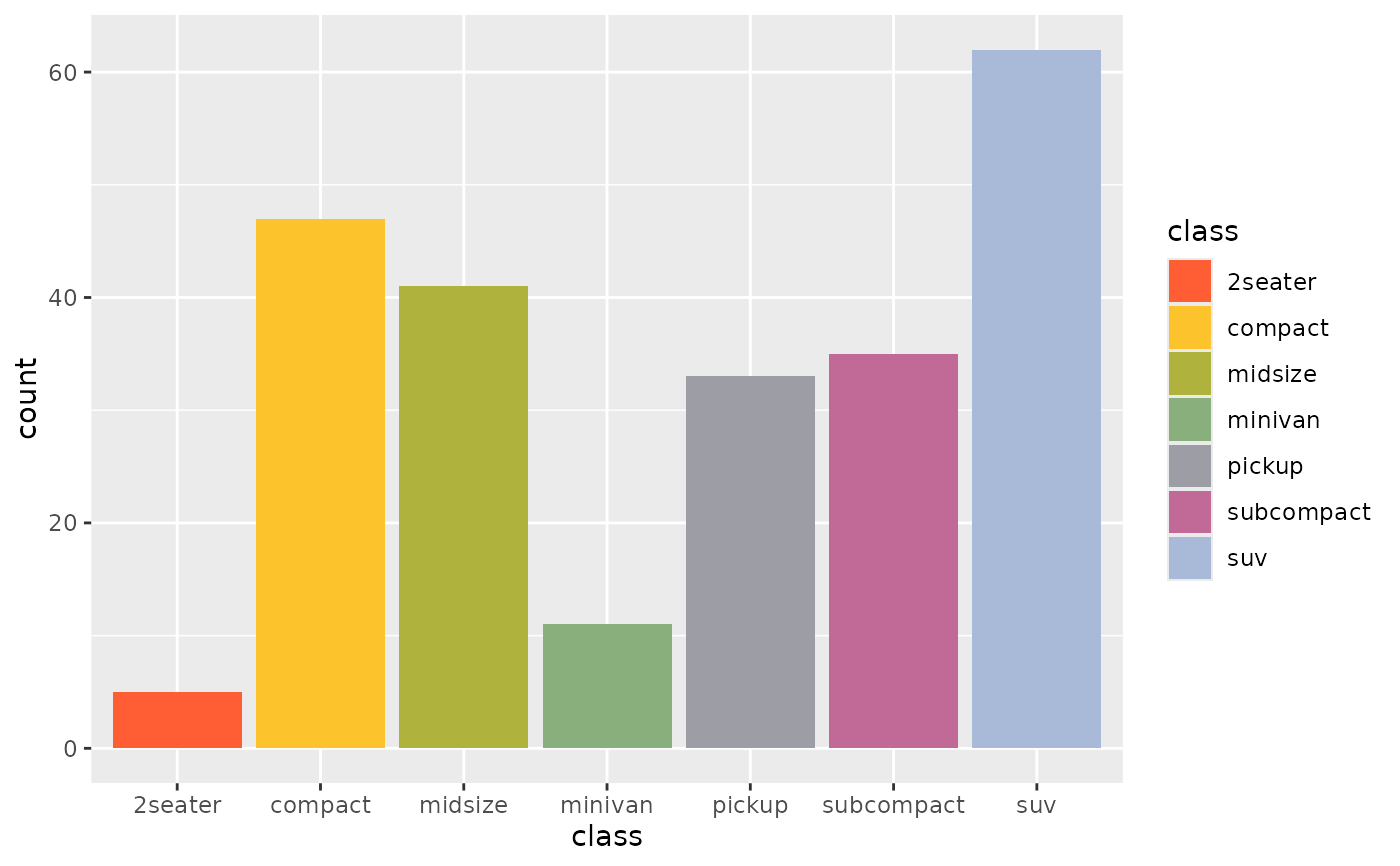
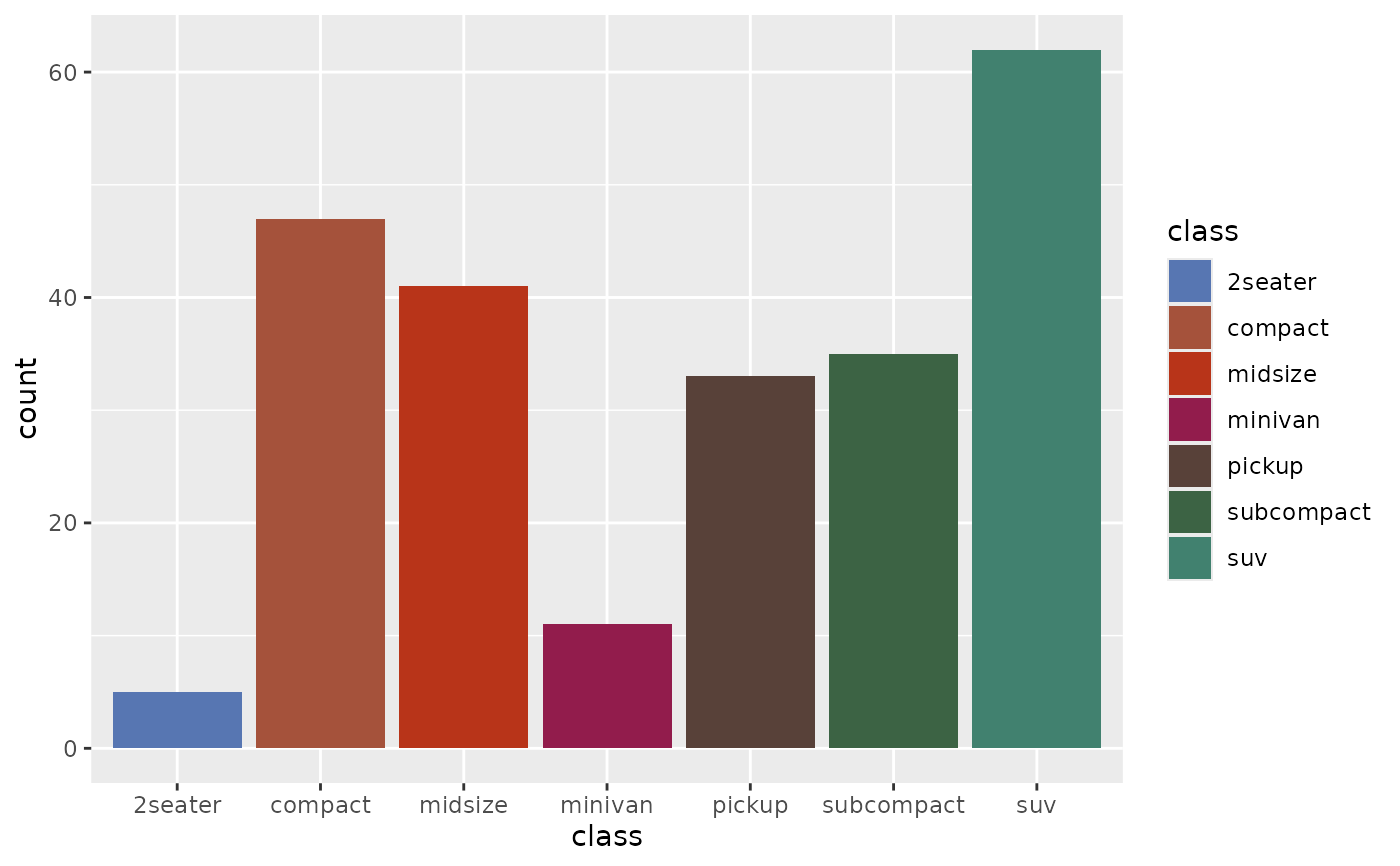
Deploying to gh-pages from @ rfortherestofus/omni@b5d9593c1e0885ca1a566078a63bb159723cba1d 🚀

Changed region(s): [[0.0614, 0.0312, 0.7986, 0.873], [0.8293, 0.2806, 0.8907, 0.6859]]

diff --git a/reference/omni_pal.html b/reference/omni_pal.html
@@ -39,8 +39,8 @@
     <div class="section level2">
     <h2 id="ref-usage">Usage<a class="anchor" aria-label="anchor" href="#ref-usage"></a></h2>
     <div class="sourceCode"><pre class="sourceCode r"><code><span><span class="fu">omni_pal</span><span class="op">(</span></span>
-<span>  palette <span class="op">=</span> <span class="fu"><a href="https://rdrr.io/r/base/c.html" class="external-link">c</a></span><span class="op">(</span><span class="st">"orange-red-400"</span>, <span class="st">"golden-yellow-400"</span>, <span class="st">"olive-green-400"</span>, <span class="st">"teal-400"</span>,</span>
-<span>    <span class="st">"plum-400"</span>, <span class="st">"periwinkle-400"</span><span class="op">)</span>,</span>
+<span>  palette <span class="op">=</span> <span class="fu"><a href="https://rdrr.io/r/base/c.html" class="external-link">c</a></span><span class="op">(</span><span class="st">"periwinkle-600"</span>, <span class="st">"orange-red-600"</span>, <span class="st">"plum-600"</span>, <span class="st">"olive-green-600"</span>,</span>
+<span>    <span class="st">"teal-600"</span><span class="op">)</span>,</span>
 <span>  reverse <span class="op">=</span> <span class="cn">FALSE</span>,</span>
 <span>  <span class="va">...</span></span>
 <span><span class="op">)</span></span></code></pre></div>
@@ -51,7 +51,9 @@
 
 
 <dl><dt id="arg-palette">palette<a class="anchor" aria-label="anchor" href="#arg-palette"></a></dt>
-<dd><p>Character vector of OMNI colors.</p></dd>
+<dd><p>Character vector of OMNI colors. The default is the 600-level
+colorblind-ordered categorical palette; golden-yellow is excluded because it
+fails contrast on a white background.</p></dd>
 
 
 <dt id="arg-reverse">reverse<a class="anchor" aria-label="anchor" href="#arg-reverse"></a></dt>

diff --git a/reference/scale_color_omni_discrete.html b/reference/scale_color_omni_discrete.html
@@ -39,8 +39,8 @@
     <div class="section level2">
     <h2 id="ref-usage">Usage<a class="anchor" aria-label="anchor" href="#ref-usage"></a></h2>
     <div class="sourceCode"><pre class="sourceCode r"><code><span><span class="fu">scale_color_omni_discrete</span><span class="op">(</span></span>
-<span>  palette <span class="op">=</span> <span class="fu"><a href="https://rdrr.io/r/base/c.html" class="external-link">c</a></span><span class="op">(</span><span class="st">"orange-red-400"</span>, <span class="st">"golden-yellow-400"</span>, <span class="st">"olive-green-400"</span>, <span class="st">"teal-400"</span>,</span>
-<span>    <span class="st">"plum-400"</span>, <span class="st">"periwinkle-400"</span><span class="op">)</span>,</span>
+<span>  palette <span class="op">=</span> <span class="fu"><a href="https://rdrr.io/r/base/c.html" class="external-link">c</a></span><span class="op">(</span><span class="st">"periwinkle-600"</span>, <span class="st">"orange-red-600"</span>, <span class="st">"plum-600"</span>, <span class="st">"olive-green-600"</span>,</span>
+<span>    <span class="st">"teal-600"</span><span class="op">)</span>,</span>
 <span>  reverse <span class="op">=</span> <span class="cn">FALSE</span>,</span>
 <span>  <span class="va">...</span></span>
 <span><span class="op">)</span></span></code></pre></div>
@@ -51,7 +51,9 @@
 
 
 <dl><dt id="arg-palette">palette<a class="anchor" aria-label="anchor" href="#arg-palette"></a></dt>
-<dd><p>Character vector of OMNI colors.</p></dd>
+<dd><p>Character vector of OMNI colors. The default is the 600-level
+colorblind-ordered categorical palette; golden-yellow is excluded because it
+fails contrast on a white background.</p></dd>
 
 
 <dt id="arg-reverse">reverse<a class="anchor" aria-label="anchor" href="#arg-reverse"></a></dt>

diff --git a/reference/scale_fill_omni_discrete.html b/reference/scale_fill_omni_discrete.html
@@ -39,8 +39,8 @@
     <div class="section level2">
     <h2 id="ref-usage">Usage<a class="anchor" aria-label="anchor" href="#ref-usage"></a></h2>
     <div class="sourceCode"><pre class="sourceCode r"><code><span><span class="fu">scale_fill_omni_discrete</span><span class="op">(</span></span>
-<span>  palette <span class="op">=</span> <span class="fu"><a href="https://rdrr.io/r/base/c.html" class="external-link">c</a></span><span class="op">(</span><span class="st">"orange-red-400"</span>, <span class="st">"golden-yellow-400"</span>, <span class="st">"olive-green-400"</span>, <span class="st">"teal-400"</span>,</span>
-<span>    <span class="st">"plum-400"</span>, <span class="st">"periwinkle-400"</span><span class="op">)</span>,</span>
+<span>  palette <span class="op">=</span> <span class="fu"><a href="https://rdrr.io/r/base/c.html" class="external-link">c</a></span><span class="op">(</span><span class="st">"periwinkle-600"</span>, <span class="st">"orange-red-600"</span>, <span class="st">"plum-600"</span>, <span class="st">"olive-green-600"</span>,</span>
+<span>    <span class="st">"teal-600"</span><span class="op">)</span>,</span>
 <span>  reverse <span class="op">=</span> <span class="cn">FALSE</span>,</span>
 <span>  <span class="va">...</span></span>
 <span><span class="op">)</span></span></code></pre></div>
@@ -51,7 +51,9 @@
 
 
 <dl><dt id="arg-palette">palette<a class="anchor" aria-label="anchor" href="#arg-palette"></a></dt>
-<dd><p>Character vector of OMNI colors.</p></dd>
+<dd><p>Character vector of OMNI colors. The default is the 600-level
+colorblind-ordered categorical palette; golden-yellow is excluded because it
+fails contrast on a white background.</p></dd>
 
 
 <dt id="arg-reverse">reverse<a class="anchor" aria-label="anchor" href="#arg-reverse"></a></dt>

diff --git a/reference/omni_pal.md b/reference/omni_pal.md
@@ -6,8 +6,8 @@ Function to interpolate a OMNI color palette
 
 ``` r
 omni_pal(
-  palette = c("orange-red-400", "golden-yellow-400", "olive-green-400", "teal-400",
-    "plum-400", "periwinkle-400"),
+  palette = c("periwinkle-600", "orange-red-600", "plum-600", "olive-green-600",
+    "teal-600"),
   reverse = FALSE,
   ...
 )
@@ -17,7 +17,9 @@ omni_pal(
 
 - palette:
 
-  Character vector of OMNI colors.
+  Character vector of OMNI colors. The default is the 600-level
+  colorblind-ordered categorical palette; golden-yellow is excluded
+  because it fails contrast on a white background.
 
 - reverse:
 

diff --git a/reference/scale_color_omni_discrete.md b/reference/scale_color_omni_discrete.md
@@ -6,8 +6,8 @@ Discrete color scale based on OMNI colors
 
 ``` r
 scale_color_omni_discrete(
-  palette = c("orange-red-400", "golden-yellow-400", "olive-green-400", "teal-400",
-    "plum-400", "periwinkle-400"),
+  palette = c("periwinkle-600", "orange-red-600", "plum-600", "olive-green-600",
+    "teal-600"),
   reverse = FALSE,
   ...
 )
@@ -17,7 +17,9 @@ scale_color_omni_discrete(
 
 - palette:
 
-  Character vector of OMNI colors.
+  Character vector of OMNI colors. The default is the 600-level
+  colorblind-ordered categorical palette; golden-yellow is excluded
+  because it fails contrast on a white background.
 
 - reverse:
 

diff --git a/reference/scale_fill_omni_discrete.md b/reference/scale_fill_omni_discrete.md
@@ -6,8 +6,8 @@ Discrete fill scale based on OMNI colors
 
 ``` r
 scale_fill_omni_discrete(
-  palette = c("orange-red-400", "golden-yellow-400", "olive-green-400", "teal-400",
-    "plum-400", "periwinkle-400"),
+  palette = c("periwinkle-600", "orange-red-600", "plum-600", "olive-green-600",
+    "teal-600"),
   reverse = FALSE,
   ...
 )
@@ -17,7 +17,9 @@ scale_fill_omni_discrete(
 
 - palette:
 
-  Character vector of OMNI colors.
+  Character vector of OMNI colors. The default is the 600-level
+  colorblind-ordered categorical palette; golden-yellow is excluded
+  because it fails contrast on a white background.
 
 - reverse:
 

diff --git a/reference/omni_table.md b/reference/omni_table.md
@@ -55,7 +55,7 @@ palmerpenguins::penguins |>
    omni_table()
 
 
-.cl-1aea9838{table-layout:auto;width:100%;}.cl-1ae1e18e{font-family:'Inter Tight';font-size:11pt;font-weight:normal;font-style:normal;text-decoration:none;color:rgba(255, 255, 255, 1.00);background-color:transparent;}.cl-1ae1e1ac{font-family:'Inter Tight';font-size:11pt;font-weight:normal;font-style:normal;text-decoration:none;color:rgba(51, 51, 51, 1.00);background-color:transparent;}.cl-1ae57f7e{margin:0;text-align:left;border-bottom: 0 solid rgba(0, 0, 0, 1.00);border-top: 0 solid rgba(0, 0, 0, 1.00);border-left: 0 solid rgba(0, 0, 0, 1.00);border-right: 0 solid rgba(0, 0, 0, 1.00);padding-bottom:5pt;padding-top:5pt;padding-left:5pt;padding-right:5pt;line-height: 1;background-color:transparent;}.cl-1ae57f88{margin:0;text-align:right;border-bottom: 0 solid rgba(0, 0, 0, 1.00);border-top: 0 solid rgba(0, 0, 0, 1.00);border-left: 0 solid rgba(0, 0, 0, 1.00);border-right: 0 solid rgba(0, 0, 0, 1.00);padding-bottom:5pt;padding-top:5pt;padding-left:5pt;padding-right:5pt;line-height: 1;background-color:transparent;}.cl-1ae5bbf6{background-color:rgba(103, 115, 132, 1.00);vertical-align: middle;border-bottom: 0 solid rgba(0, 0, 0, 1.00);border-top: 0 solid rgba(0, 0, 0, 1.00);border-left: 0 solid rgba(0, 0, 0, 1.00);border-right: 1pt solid rgba(255, 255, 255, 1.00);margin-bottom:0;margin-top:0;margin-left:0;margin-right:0;}.cl-1ae5bc00{background-color:rgba(103, 115, 132, 1.00);vertical-align: middle;border-bottom: 0 solid rgba(0, 0, 0, 1.00);border-top: 0 solid rgba(0, 0, 0, 1.00);border-left: 1pt solid rgba(255, 255, 255, 1.00);border-right: 1pt solid rgba(255, 255, 255, 1.00);margin-bottom:0;margin-top:0;margin-left:0;margin-right:0;}.cl-1ae5bc01{background-color:rgba(103, 115, 132, 1.00);vertical-align: middle;border-bottom: 0 solid rgba(0, 0, 0, 1.00);border-top: 0 solid rgba(0, 0, 0, 1.00);border-left: 1pt solid rgba(255, 255, 255, 1.00);border-right: 1pt solid rgba(255, 255, 255, 1.00);margin-bottom:0;margin-top:0;margin-left:0;margin-right:0;}.cl-1ae5bc0a{background-color:rgba(103, 115, 132, 1.00);vertical-align: middle;border-bottom: 0 solid rgba(0, 0, 0, 1.00);border-top: 0 solid rgba(0, 0, 0, 1.00);border-left: 1pt solid rgba(255, 255, 255, 1.00);border-right: 0 solid rgba(0, 0, 0, 1.00);margin-bottom:0;margin-top:0;margin-left:0;margin-right:0;}.cl-1ae5bc0b{background-color:transparent;vertical-align: middle;border-bottom: 1pt solid rgba(255, 255, 255, 1.00);border-top: 0 solid rgba(0, 0, 0, 1.00);border-left: 0 solid rgba(0, 0, 0, 1.00);border-right: 1pt solid rgba(255, 255, 255, 1.00);margin-bottom:0;margin-top:0;margin-left:0;margin-right:0;}.cl-1ae5bc0c{background-color:transparent;vertical-align: middle;border-bottom: 1pt solid rgba(255, 255, 255, 1.00);border-top: 0 solid rgba(0, 0, 0, 1.00);border-left: 1pt solid rgba(255, 255, 255, 1.00);border-right: 1pt solid rgba(255, 255, 255, 1.00);margin-bottom:0;margin-top:0;margin-left:0;margin-right:0;}.cl-1ae5bc14{background-color:transparent;vertical-align: middle;border-bottom: 1pt solid rgba(255, 255, 255, 1.00);border-top: 0 solid rgba(0, 0, 0, 1.00);border-left: 1pt solid rgba(255, 255, 255, 1.00);border-right: 1pt solid rgba(255, 255, 255, 1.00);margin-bottom:0;margin-top:0;margin-left:0;margin-right:0;}.cl-1ae5bc15{background-color:transparent;vertical-align: middle;border-bottom: 1pt solid rgba(255, 255, 255, 1.00);border-top: 0 solid rgba(0, 0, 0, 1.00);border-left: 1pt solid rgba(255, 255, 255, 1.00);border-right: 0 solid rgba(0, 0, 0, 1.00);margin-bottom:0;margin-top:0;margin-left:0;margin-right:0;}.cl-1ae5bc1e{background-color:rgba(191, 203, 211, 1.00);vertical-align: middle;border-bottom: 1pt solid rgba(255, 255, 255, 1.00);border-top: 1pt solid rgba(255, 255, 255, 1.00);border-left: 0 solid rgba(0, 0, 0, 1.00);border-right: 1pt solid rgba(255, 255, 255, 1.00);margin-bottom:0;margin-top:0;margin-left:0;margin-right:0;}.cl-1ae5bc1f{background-color:rgba(191, 203, 211, 1.00);vertical-align: middle;border-bottom: 1pt solid rgba(255, 255, 255, 1.00);border-top: 1pt solid rgba(255, 255, 255, 1.00);border-left: 1pt solid rgba(255, 255, 255, 1.00);border-right: 1pt solid rgba(255, 255, 255, 1.00);margin-bottom:0;margin-top:0;margin-left:0;margin-right:0;}.cl-1ae5bc20{background-color:rgba(191, 203, 211, 1.00);vertical-align: middle;border-bottom: 1pt solid rgba(255, 255, 255, 1.00);border-top: 1pt solid rgba(255, 255, 255, 1.00);border-left: 1pt solid rgba(255, 255, 255, 1.00);border-right: 1pt solid rgba(255, 255, 255, 1.00);margin-bottom:0;margin-top:0;margin-left:0;margin-right:0;}.cl-1ae5bc28{background-color:rgba(191, 203, 211, 1.00);vertical-align: middle;border-bottom: 1pt solid rgba(255, 255, 255, 1.00);border-top: 1pt solid rgba(255, 255, 255, 1.00);border-left: 1pt solid rgba(255, 255, 255, 1.00);border-right: 0 solid rgba(0, 0, 0, 1.00);margin-bottom:0;margin-top:0;margin-left:0;margin-right:0;}.cl-1ae5bc29{background-color:transparent;vertical-align: middle;border-bottom: 0 solid rgba(0, 0, 0, 1.00);border-top: 1pt solid rgba(255, 255, 255, 1.00);border-left: 0 solid rgba(0, 0, 0, 1.00);border-right: 1pt solid rgba(255, 255, 255, 1.00);margin-bottom:0;margin-top:0;margin-left:0;margin-right:0;}.cl-1ae5bc32{background-color:transparent;vertical-align: middle;border-bottom: 0 solid rgba(0, 0, 0, 1.00);border-top: 1pt solid rgba(255, 255, 255, 1.00);border-left: 1pt solid rgba(255, 255, 255, 1.00);border-right: 1pt solid rgba(255, 255, 255, 1.00);margin-bottom:0;margin-top:0;margin-left:0;margin-right:0;}.cl-1ae5bc33{background-color:transparent;vertical-align: middle;border-bottom: 0 solid rgba(0, 0, 0, 1.00);border-top: 1pt solid rgba(255, 255, 255, 1.00);border-left: 1pt solid rgba(255, 255, 255, 1.00);border-right: 1pt solid rgba(255, 255, 255, 1.00);margin-bottom:0;margin-top:0;margin-left:0;margin-right:0;}.cl-1ae5bc3c{background-color:transparent;vertical-align: middle;border-bottom: 0 solid rgba(0, 0, 0, 1.00);border-top: 1pt solid rgba(255, 255, 255, 1.00);border-left: 1pt solid rgba(255, 255, 255, 1.00);border-right: 0 solid rgba(0, 0, 0, 1.00);margin-bottom:0;margin-top:0;margin-left:0;margin-right:0;}
+.cl-76cb34d6{table-layout:auto;width:100%;}.cl-76c1376a{font-family:'Inter Tight';font-size:11pt;font-weight:normal;font-style:normal;text-decoration:none;color:rgba(255, 255, 255, 1.00);background-color:transparent;}.cl-76c13788{font-family:'Inter Tight';font-size:11pt;font-weight:normal;font-style:normal;text-decoration:none;color:rgba(51, 51, 51, 1.00);background-color:transparent;}.cl-76c4f2c4{margin:0;text-align:left;border-bottom: 0 solid rgba(0, 0, 0, 1.00);border-top: 0 solid rgba(0, 0, 0, 1.00);border-left: 0 solid rgba(0, 0, 0, 1.00);border-right: 0 solid rgba(0, 0, 0, 1.00);padding-bottom:5pt;padding-top:5pt;padding-left:5pt;padding-right:5pt;line-height: 1;background-color:transparent;}.cl-76c4f2ce{margin:0;text-align:right;border-bottom: 0 solid rgba(0, 0, 0, 1.00);border-top: 0 solid rgba(0, 0, 0, 1.00);border-left: 0 solid rgba(0, 0, 0, 1.00);border-right: 0 solid rgba(0, 0, 0, 1.00);padding-bottom:5pt;padding-top:5pt;padding-left:5pt;padding-right:5pt;line-height: 1;background-color:transparent;}.cl-76c5327a{background-color:rgba(103, 115, 132, 1.00);vertical-align: middle;border-bottom: 0 solid rgba(0, 0, 0, 1.00);border-top: 0 solid rgba(0, 0, 0, 1.00);border-left: 0 solid rgba(0, 0, 0, 1.00);border-right: 1pt solid rgba(255, 255, 255, 1.00);margin-bottom:0;margin-top:0;margin-left:0;margin-right:0;}.cl-76c53284{background-color:rgba(103, 115, 132, 1.00);vertical-align: middle;border-bottom: 0 solid rgba(0, 0, 0, 1.00);border-top: 0 solid rgba(0, 0, 0, 1.00);border-left: 1pt solid rgba(255, 255, 255, 1.00);border-right: 1pt solid rgba(255, 255, 255, 1.00);margin-bottom:0;margin-top:0;margin-left:0;margin-right:0;}.cl-76c5328e{background-color:rgba(103, 115, 132, 1.00);vertical-align: middle;border-bottom: 0 solid rgba(0, 0, 0, 1.00);border-top: 0 solid rgba(0, 0, 0, 1.00);border-left: 1pt solid rgba(255, 255, 255, 1.00);border-right: 1pt solid rgba(255, 255, 255, 1.00);margin-bottom:0;margin-top:0;margin-left:0;margin-right:0;}.cl-76c5328f{background-color:rgba(103, 115, 132, 1.00);vertical-align: middle;border-bottom: 0 solid rgba(0, 0, 0, 1.00);border-top: 0 solid rgba(0, 0, 0, 1.00);border-left: 1pt solid rgba(255, 255, 255, 1.00);border-right: 0 solid rgba(0, 0, 0, 1.00);margin-bottom:0;margin-top:0;margin-left:0;margin-right:0;}.cl-76c53290{background-color:transparent;vertical-align: middle;border-bottom: 1pt solid rgba(255, 255, 255, 1.00);border-top: 0 solid rgba(0, 0, 0, 1.00);border-left: 0 solid rgba(0, 0, 0, 1.00);border-right: 1pt solid rgba(255, 255, 255, 1.00);margin-bottom:0;margin-top:0;margin-left:0;margin-right:0;}.cl-76c53298{background-color:transparent;vertical-align: middle;border-bottom: 1pt solid rgba(255, 255, 255, 1.00);border-top: 0 solid rgba(0, 0, 0, 1.00);border-left: 1pt solid rgba(255, 255, 255, 1.00);border-right: 1pt solid rgba(255, 255, 255, 1.00);margin-bottom:0;margin-top:0;margin-left:0;margin-right:0;}.cl-76c532a2{background-color:transparent;vertical-align: middle;border-bottom: 1pt solid rgba(255, 255, 255, 1.00);border-top: 0 solid rgba(0, 0, 0, 1.00);border-left: 1pt solid rgba(255, 255, 255, 1.00);border-right: 1pt solid rgba(255, 255, 255, 1.00);margin-bottom:0;margin-top:0;margin-left:0;margin-right:0;}.cl-76c532a3{background-color:transparent;vertical-align: middle;border-bottom: 1pt solid rgba(255, 255, 255, 1.00);border-top: 0 solid rgba(0, 0, 0, 1.00);border-left: 1pt solid rgba(255, 255, 255, 1.00);border-right: 0 solid rgba(0, 0, 0, 1.00);margin-bottom:0;margin-top:0;margin-left:0;margin-right:0;}.cl-76c532a4{background-color:rgba(191, 203, 211, 1.00);vertical-align: middle;border-bottom: 1pt solid rgba(255, 255, 255, 1.00);border-top: 1pt solid rgba(255, 255, 255, 1.00);border-left: 0 solid rgba(0, 0, 0, 1.00);border-right: 1pt solid rgba(255, 255, 255, 1.00);margin-bottom:0;margin-top:0;margin-left:0;margin-right:0;}.cl-76c532ac{background-color:rgba(191, 203, 211, 1.00);vertical-align: middle;border-bottom: 1pt solid rgba(255, 255, 255, 1.00);border-top: 1pt solid rgba(255, 255, 255, 1.00);border-left: 1pt solid rgba(255, 255, 255, 1.00);border-right: 1pt solid rgba(255, 255, 255, 1.00);margin-bottom:0;margin-top:0;margin-left:0;margin-right:0;}.cl-76c532ad{background-color:rgba(191, 203, 211, 1.00);vertical-align: middle;border-bottom: 1pt solid rgba(255, 255, 255, 1.00);border-top: 1pt solid rgba(255, 255, 255, 1.00);border-left: 1pt solid rgba(255, 255, 255, 1.00);border-right: 1pt solid rgba(255, 255, 255, 1.00);margin-bottom:0;margin-top:0;margin-left:0;margin-right:0;}.cl-76c532b6{background-color:rgba(191, 203, 211, 1.00);vertical-align: middle;border-bottom: 1pt solid rgba(255, 255, 255, 1.00);border-top: 1pt solid rgba(255, 255, 255, 1.00);border-left: 1pt solid rgba(255, 255, 255, 1.00);border-right: 0 solid rgba(0, 0, 0, 1.00);margin-bottom:0;margin-top:0;margin-left:0;margin-right:0;}.cl-76c532b7{background-color:transparent;vertical-align: middle;border-bottom: 0 solid rgba(0, 0, 0, 1.00);border-top: 1pt solid rgba(255, 255, 255, 1.00);border-left: 0 solid rgba(0, 0, 0, 1.00);border-right: 1pt solid rgba(255, 255, 255, 1.00);margin-bottom:0;margin-top:0;margin-left:0;margin-right:0;}.cl-76c532c0{background-color:transparent;vertical-align: middle;border-bottom: 0 solid rgba(0, 0, 0, 1.00);border-top: 1pt solid rgba(255, 255, 255, 1.00);border-left: 1pt solid rgba(255, 255, 255, 1.00);border-right: 1pt solid rgba(255, 255, 255, 1.00);margin-bottom:0;margin-top:0;margin-left:0;margin-right:0;}.cl-76c532c1{background-color:transparent;vertical-align: middle;border-bottom: 0 solid rgba(0, 0, 0, 1.00);border-top: 1pt solid rgba(255, 255, 255, 1.00);border-left: 1pt solid rgba(255, 255, 255, 1.00);border-right: 1pt solid rgba(255, 255, 255, 1.00);margin-bottom:0;margin-top:0;margin-left:0;margin-right:0;}.cl-76c532ca{background-color:transparent;vertical-align: middle;border-bottom: 0 solid rgba(0, 0, 0, 1.00);border-top: 1pt solid rgba(255, 255, 255, 1.00);border-left: 1pt solid rgba(255, 255, 255, 1.00);border-right: 0 solid rgba(0, 0, 0, 1.00);margin-bottom:0;margin-top:0;margin-left:0;margin-right:0;}
 
 
 species